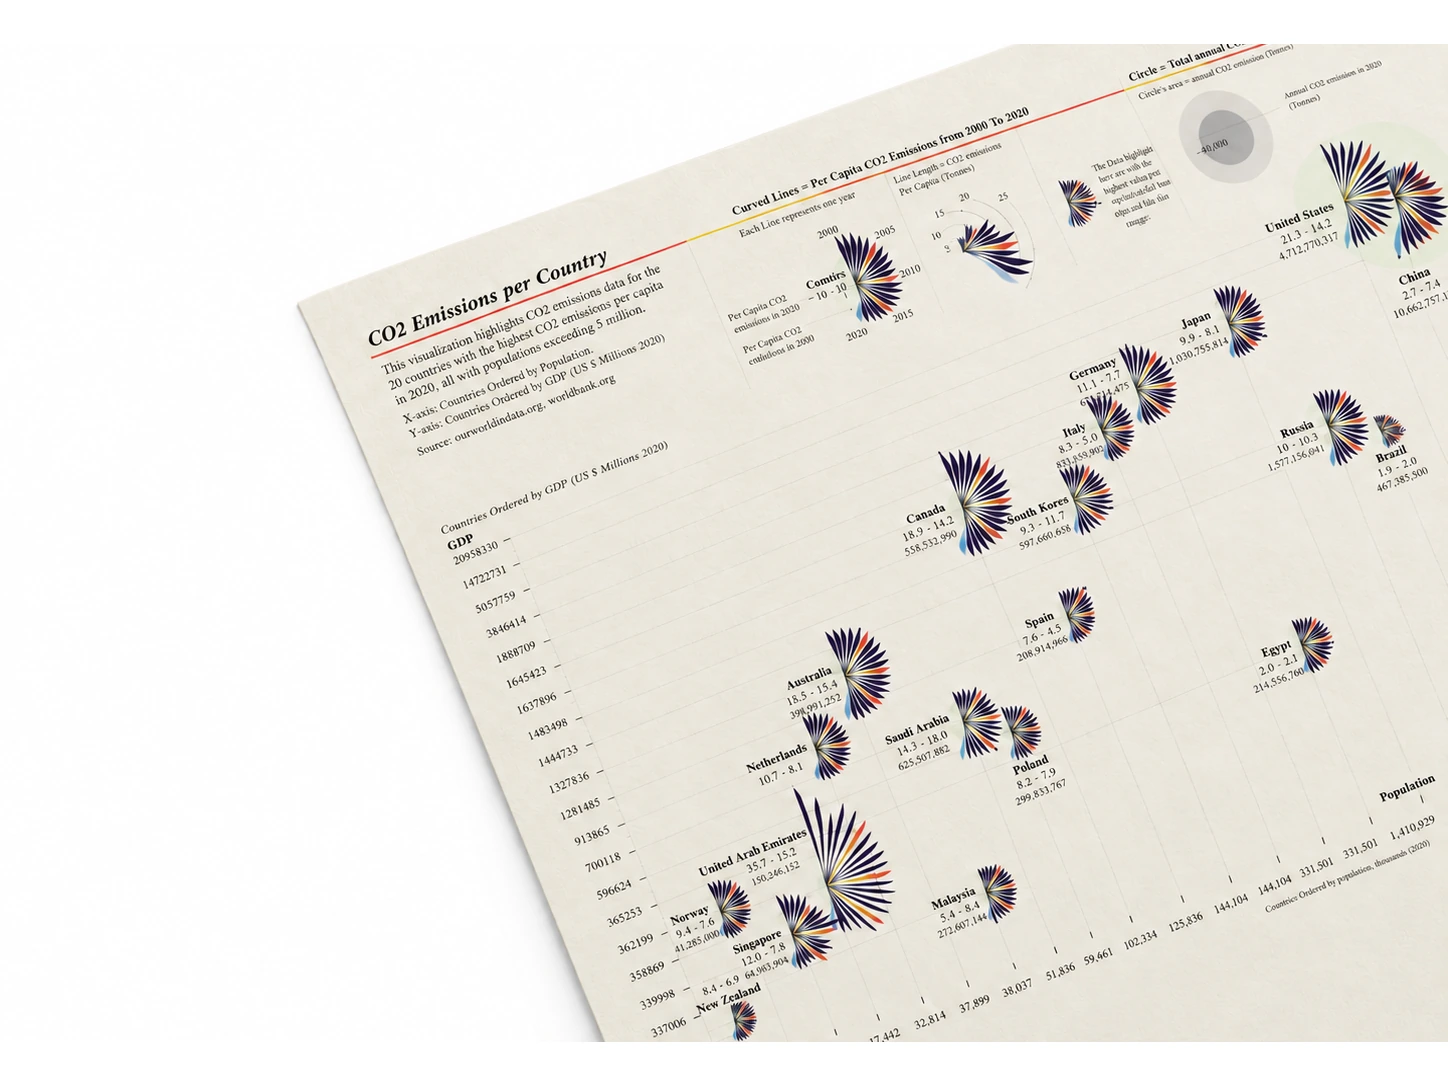
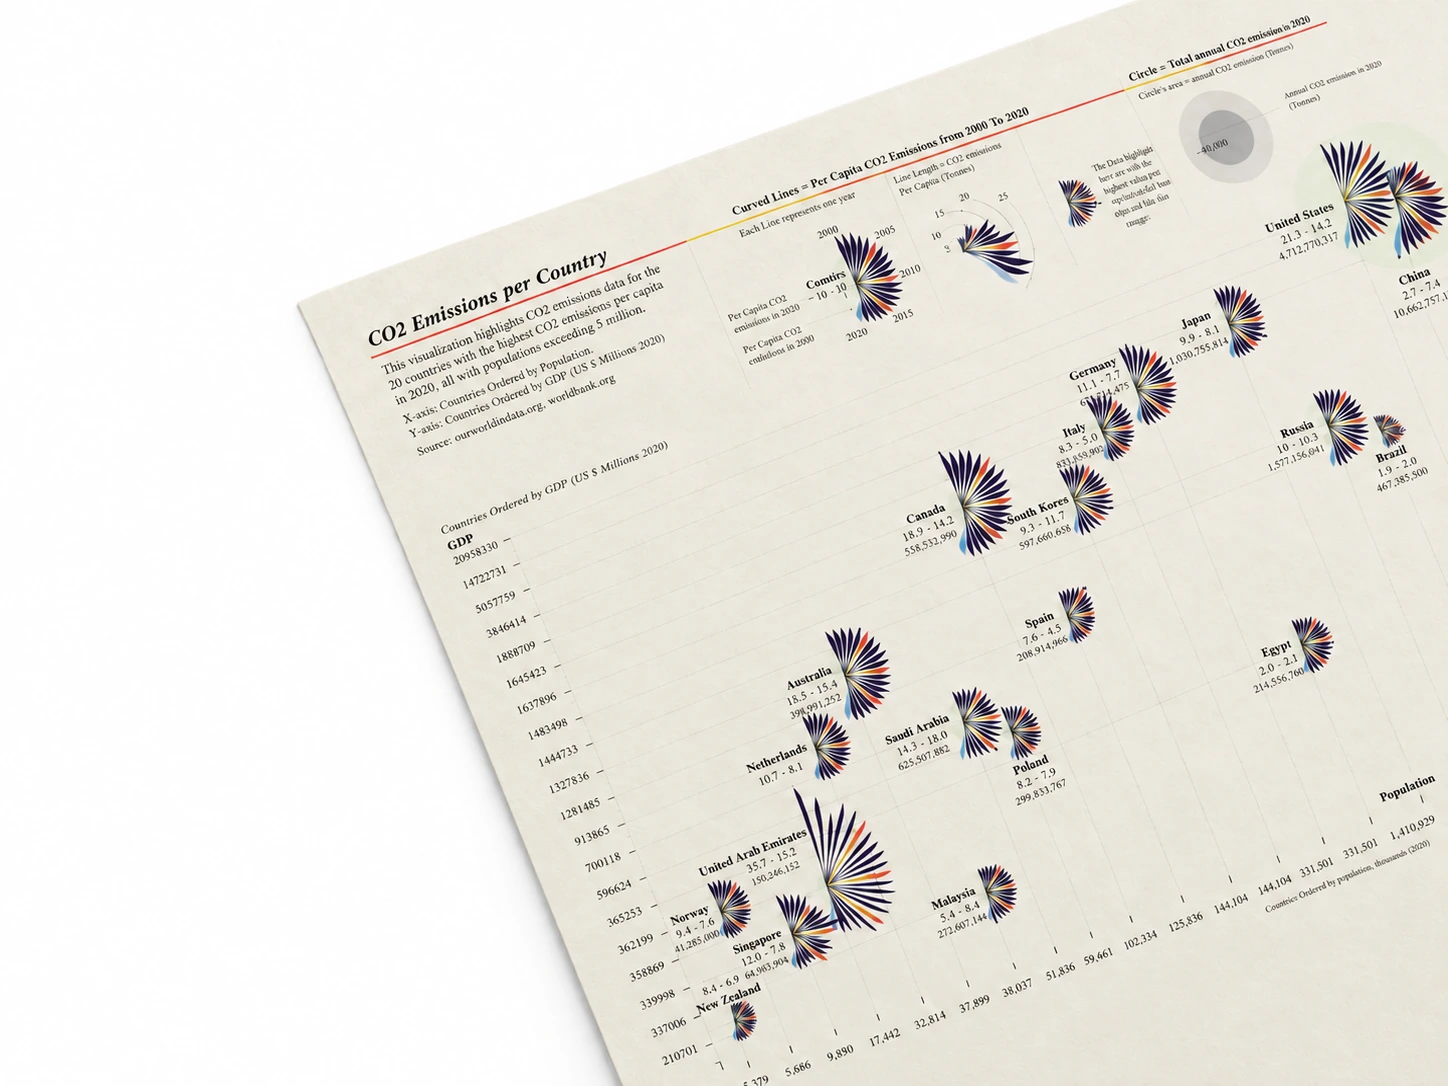
Restore CRM and CO2 posters without white fill, keep HR poster with white top and bottom

Changed region(s): [[0.404, 0.942, 1.0, 1.0], [0.7148, 0.0, 1.0, 0.0608]]

diff --git a/src/data/project-papers.ts b/src/data/project-papers.ts
@@ -1,6 +1,6 @@
 export const projectPapers = [
  {summary:'Customer segmentation, lifetime value and churn risk, brought together to guide retention priorities.',title:'Which customers should we focus on?',tools:'Python · Customer analytics',image:'/img/ecommerce/customer-intelligence-poster.webp',alt:'E-commerce Customer Intelligence poster: RFM segmentation, lifetime value and churn prediction.',url:'/projects/ecommerce-clv-churn/'},
- {summary:'Exploring attrition across job roles and overtime to identify where retention efforts could focus.',title:'Where should HR focus its retention efforts?',tools:'Power BI · SQL · Python',image:'/img/hr/retention-poster.png',alt:'Employee attrition analysis poster for Confidential, with selected findings and proposed next steps.',url:'/projects/hr-attrition-analysis/'},
+ {summary:'Exploring attrition across job roles and overtime to identify where retention efforts could focus.',title:'Where should HR focus its retention efforts?',tools:'Power BI · SQL · Python',image:'/img/hr/retention-poster.webp',alt:'Employee attrition analysis poster for Confidential, with selected findings and proposed next steps.',url:'/projects/hr-attrition-analysis/'},
  {summary:'A statistical testing project covering hypotheses, confidence intervals and comparisons between groups.',title:'Is the difference worth acting on?',tools:'Python · NumPy · SciPy',image:'/img/ab-test-paper.svg',alt:'An illustration of the A/B testing workflow from hypothesis to confidence interval and decision.',url:'/projects/ab-test/'},
  {summary:'Cleaning and querying Chinook, COVID-19 and Nashville housing data with joins and window functions.',title:'What can messy records tell us?',tools:'SQL · SQLite · PostgreSQL',image:'/img/sql-analysis-paper.svg',alt:'An illustration of joining, cleaning and querying business data.',url:'/projects/sql-for-business-analytics/'},
   {summary:'Per capita and total CO2 emissions for 20 countries in 2020, with trends from 2000 to 2020.',title:'How do emissions compare across countries?',tools:'Python · Data visualization',image:'/img/ecommerce/co2-emissions-poster.webp',alt:'CO2 emissions per country infographic comparing per capita and total emissions for 20 countries in 2020.',url:'/projects/co2-emissions/'},
